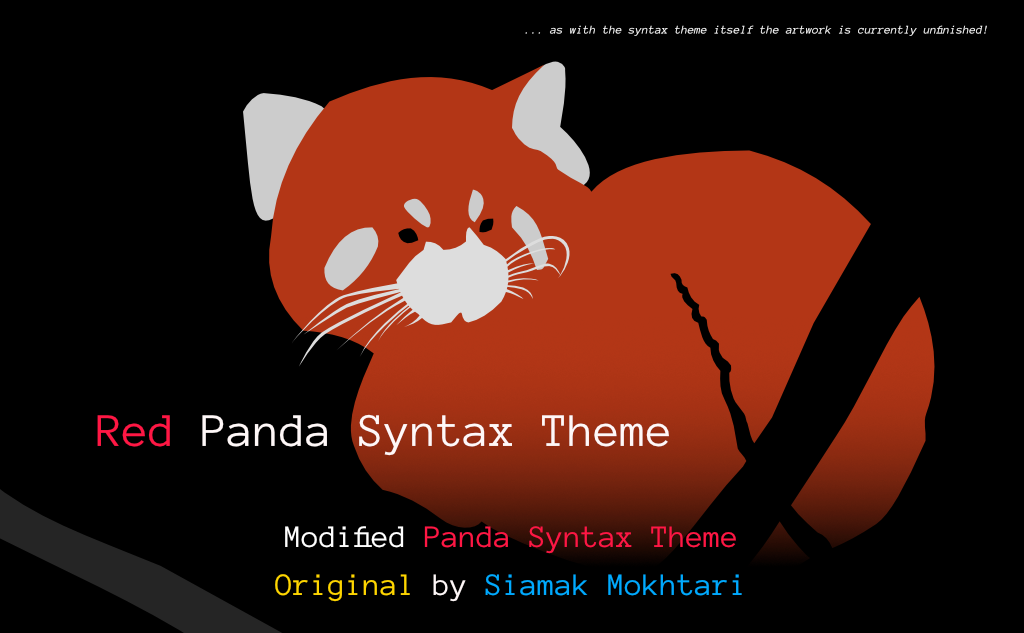
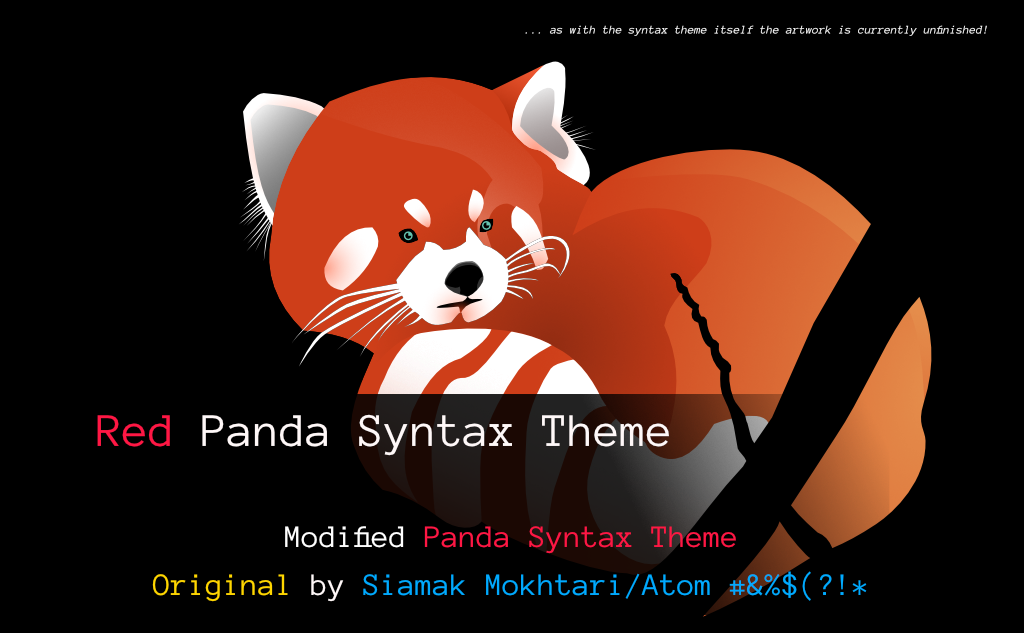
Updated artwork & removed some text regarding the original Panda theme

diff --git a/README.md b/README.md
@@ -7,13 +7,12 @@ This will be a drastic change to the theme, for personal use, feel free to do wh
 For now everything below still applies and will be adapted as I move on!
 
 
-![Panda Logo](https://raw.githubusercontent.com/siamak/atom-panda-syntax/master/panda.jpg)
+# 👹
 
-A _Superminimal_, _dark_ Syntax Theme. This is the latest version of the **Panda Syntax** theme. It's a _dark_ syntax theme crafted especially for [Atom](http://atom.io), with subtle colors that are meant to be easy on the eyes.
+Well I'm obviously getting rid of more and more things as promised. For now only worked on artwork. Hope you like the stuff made with lots of 😍 💝
 
 ---
-![Main ScreenShot](https://raw.githubusercontent.com/siamak/atom-panda-syntax/master/screenshots/main.jpg)
-> The font in the screenshot is `Operator Mono`. From $199, exclusively at H&Co. http://www.typography.com/blog/introducing-operator
+![Main ScreenShot](screenshots/red-panda-sq.png)
 
 ---
 
@@ -40,26 +39,16 @@ Panda Syntax Theme Supported Packages `language-*` and optimized for many langua
 ## 📷 Screen Shots
 #### — JSX:
 
-![JSX ScreenShot](https://raw.githubusercontent.com/siamak/atom-panda-syntax/master/screenshots/jsx.jpg)
-
 #### — SCSS:
-
-![SCSS ScreenShot](https://raw.githubusercontent.com/siamak/atom-panda-syntax/master/screenshots/scss.jpg)
 
 #### — HTML:
 
-![HTML ScreenShot](https://raw.githubusercontent.com/siamak/atom-panda-syntax/master/screenshots/html.jpg)
-
 #### — PHP:
-
-![PHP ScreenShot](https://raw.githubusercontent.com/siamak/atom-panda-syntax/master/screenshots/php.jpg)
 
 ---
 
 ## 📞 Recommended
 Panda Created by [Atom](http://atom.io) on [Atom Material UI](https://atom.io/themes/atom-material-ui).
-
-[![Panda Ports](https://raw.githubusercontent.com/siamak/atom-panda-syntax/master/screenshots/ports.jpg)](http://panda.siamak.work)
 
 ---
 
